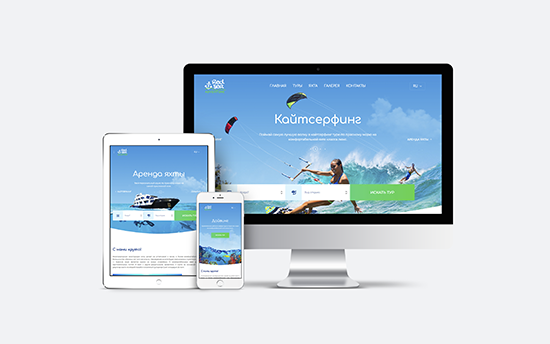
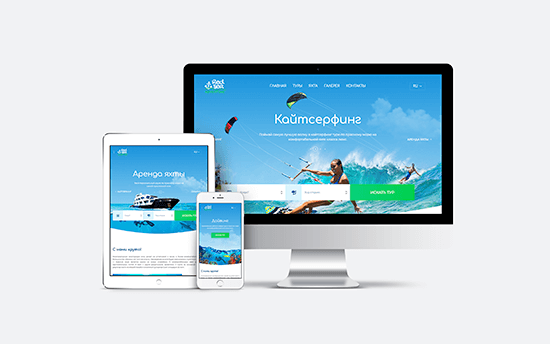
Add: New photos

Changed region(s): [[0.1855, 0.2035, 0.8036, 0.7849], [0.2164, 0.7849, 0.34, 0.814]]

diff --git a/js/main.js b/js/main.js
@@ -1,21 +1,19 @@
-"use strict"
-
 // Fixed nav bar
 window.addEventListener('scroll', function() {
 	let scrolled = window.pageYOffset || document.documentElement.scrollTop;
 	let navBar = document.querySelector('.navbar');
 
-	if (scrolled != 0) {
+	if (scrolled !== 0) {
 		navBar.classList.add('afix');
-	}else if (scrolled == 0) {
+	}else if (scrolled === 0) {
 		navBar.classList.remove('afix');
 	}
 });
 
-// Back to top button 
+// Back to top button
 function trackScroll() {
-	var scrolled = window.pageYOffset;
-	var coords = document.documentElement.clientHeight;
+	let scrolled = window.pageYOffset;
+	let coords = document.documentElement.clientHeight;
 
 	if (scrolled > coords) {
 		goTopBtn.classList.add('back-to-top-show');
@@ -32,7 +30,7 @@ function backToTop() {
 	}
 }
 
-var goTopBtn = document.querySelector('.back-to-top');
+let goTopBtn = document.querySelector('.back-to-top');
 
 window.addEventListener('scroll', trackScroll);
 goTopBtn.addEventListener('click', backToTop);
@@ -42,7 +40,7 @@ function getWidthPage() {
 	return document.documentElement.clientWidth;
 }
 
-// Slider 
+// Slider
 function getWidhtElem(elem) {
 	return document.querySelector(elem).offsetWidth;
 }
@@ -61,12 +59,12 @@ function setWidhtElem(slider, element) {
 		let elemWidth = getWidhtElem(slider) / 2 * elemChild(element);
 		elem.style.width = elemWidth + 'px';
 	}
-	
+
 }
 
 window.onload = window.onresize = function() {
 	setWidhtElem('.my_works-slider', '.my_works-slider-wraper');
-}
+};
 
 
 function mySlider(slider, wraper, item, button) {
@@ -86,7 +84,7 @@ function mySlider(slider, wraper, item, button) {
 
 	slidderItems.forEach(function(item, index) {
 		items.push({item: item, position: index, transform: 0})
-	})
+	});
 
 
 	let position = {
@@ -114,14 +112,14 @@ function mySlider(slider, wraper, item, button) {
 		getMax: function () {
 			return items[position.getItemMax()].position;
 		}
-	}
+	};
 
 
 	let transformItrem = function (direction) {
 		let nextItem;
 
 		if(direction === 'right') {
-			positionLeftItem++
+			positionLeftItem++;
 			if((positionLeftItem + wraperWidth / itemWidth - 1) > position.getMax()){
 				nextItem = position.getItemMin();
 				items[nextItem].position = position.getMax() + 1;
@@ -131,9 +129,9 @@ function mySlider(slider, wraper, item, button) {
 				}, 700);
 			}
 			transform -= step;
-		}	
+		}
 		if(direction === 'left') {
-			positionLeftItem--
+			positionLeftItem--;
 			if(positionLeftItem < position.getMin()){
 				nextItem = position.getItemMax();
 				items[nextItem].position = position.getMin() - 1;
@@ -141,27 +139,27 @@ function mySlider(slider, wraper, item, button) {
 				items[nextItem].item.style.transform = 'translateX(' + items[nextItem].transform + '%)';
 			}
 			transform += step;
-		}	
+		}
 		sliderWraper.style.transform = 'translateX(' + transform + '%)';
-	}
+	};
 
 
 	let controlClick = function () {
-		let direction
+		let direction;
 		if(this.classList.contains('right')){
 			direction = 'right'
 		} else {
 			direction = 'left'
 		}
 			transformItrem(direction);
-	}
+	};
 
 
 	let setUpListener = function () {
 		sliderConyrols.forEach(function (item) {
 			item.addEventListener('click', controlClick)
-		})	
-	}
+		})
+	};
 	setUpListener();
 }
 
@@ -170,14 +168,14 @@ mySlider('.my_works-slider', '.my_works-slider-wraper', '.my_works-slider-items'
 
 
 
-// Faq acordeon 
+// Faq acordeon
 let itemFaq = document.querySelectorAll('.faq-item');
 
 let clickToQuestion = function () {
 	itemFaq.forEach(function (items) {
 		items.addEventListener('click', showItemsFaq)
 	});
-}
+};
 
 function showItemsFaq() {
 	let section = this.lastElementChild;
@@ -196,7 +194,7 @@ function showItemsFaq() {
 function collapseSection(element) {
 	let sectionHeight = element.scrollHeight;
 	let elementTransition = element.style.transition;
-	
+
 	element.style.transition = '';
 
 	requestAnimationFrame(function() {
@@ -206,7 +204,7 @@ function collapseSection(element) {
 		requestAnimationFrame(function() {
 			element.style.height = 0 + 'px';
 		})
-	})
+	});
 	element.setAttribute('data-collapsed','true')
 }
 
@@ -218,7 +216,7 @@ function expandSection(element) {
 	element.addEventListener('transitionend', function(e) {
 		element.addEventListener('transitionend', arguments.callee);
 		element.style.height = null;
-	})
+	});
 	element.setAttribute('data-collapsed', 'false');
 }
 
@@ -239,7 +237,7 @@ function sectionMinus(element){
 clickToQuestion();
 
 
-// Scrol to 
+// Scrol to
 let linkNav = document.querySelectorAll('.menuLink');
 let V = .25;
 
@@ -251,32 +249,32 @@ linkNav.forEach(function(item){
 		let hash = this.href.replace(/[^#]*(.*)/, '$1');
 		let indentTo = document.querySelector(hash).getBoundingClientRect().top;
 		let start = null;
-	
+
 		requestAnimationFrame(step);
 		showToggleMenu();
-	
+
 		function step(time){
 			if(start === null) start = time;
-	
+
 			let progress = time - start;
 			let r;
-	
+
 			if (indentTo < 0) {
 				r = Math.max(winScrol - progress / V, winScrol + indentTo);
 			}else {
 				r = Math.min(winScrol + progress / V, winScrol + indentTo);
 			}
-	
+
 			window.scrollTo(0, r);
-	
-			if(r != winScrol + indentTo){
-				requestAnimationFrame(step);	
+
+			if(r !== winScrol + indentTo){
+				requestAnimationFrame(step);
 			}else {
 				location.hash = hash;
 			}
 		}
 	})
-})
+});
 
 
 // Validation form
@@ -286,7 +284,7 @@ formButton.addEventListener('click', function(e){
 
 	for (let i = 0; i < form.length - 1; i++) {
 
-		if(form.elements[i].value){	
+		if(form.elements[i].value){
 			removeClass(form.elements[i]);
 			if(form.elements[1].value) {
 				emailValid(form.elements[1])
@@ -301,7 +299,7 @@ formButton.addEventListener('click', function(e){
 
 function addClass(elememt) {
 	let elem = elememt.nextElementSibling;
-	elem.classList.add('show')
+	elem.classList.add('show');
 	console.log(elem.classList);
 }
 
@@ -313,8 +311,8 @@ function removeClass(elememt) {
 function emailValid(element) {
 	let reg = /^([A-Za-z0-9_\-\.])+\@([A-Za-z0-9_\-\.])+\.([A-Za-z]{2,4})$/;
 	let elem = element.value;
-	
-	if(reg.test(elem) == false) {
+
+	if(reg.test(elem) === false) {
 		addClass(element);
 	}else {
 		removeClass(element);
@@ -338,5 +336,5 @@ function showToggleMenu() {
 	}else if (toggleBtn.classList.contains("fa-times")){
 		toggleBtn.classList.remove('fa-times');
 		toggleBtn.classList.add('fa-equals');
-	}	
+	}
 }
